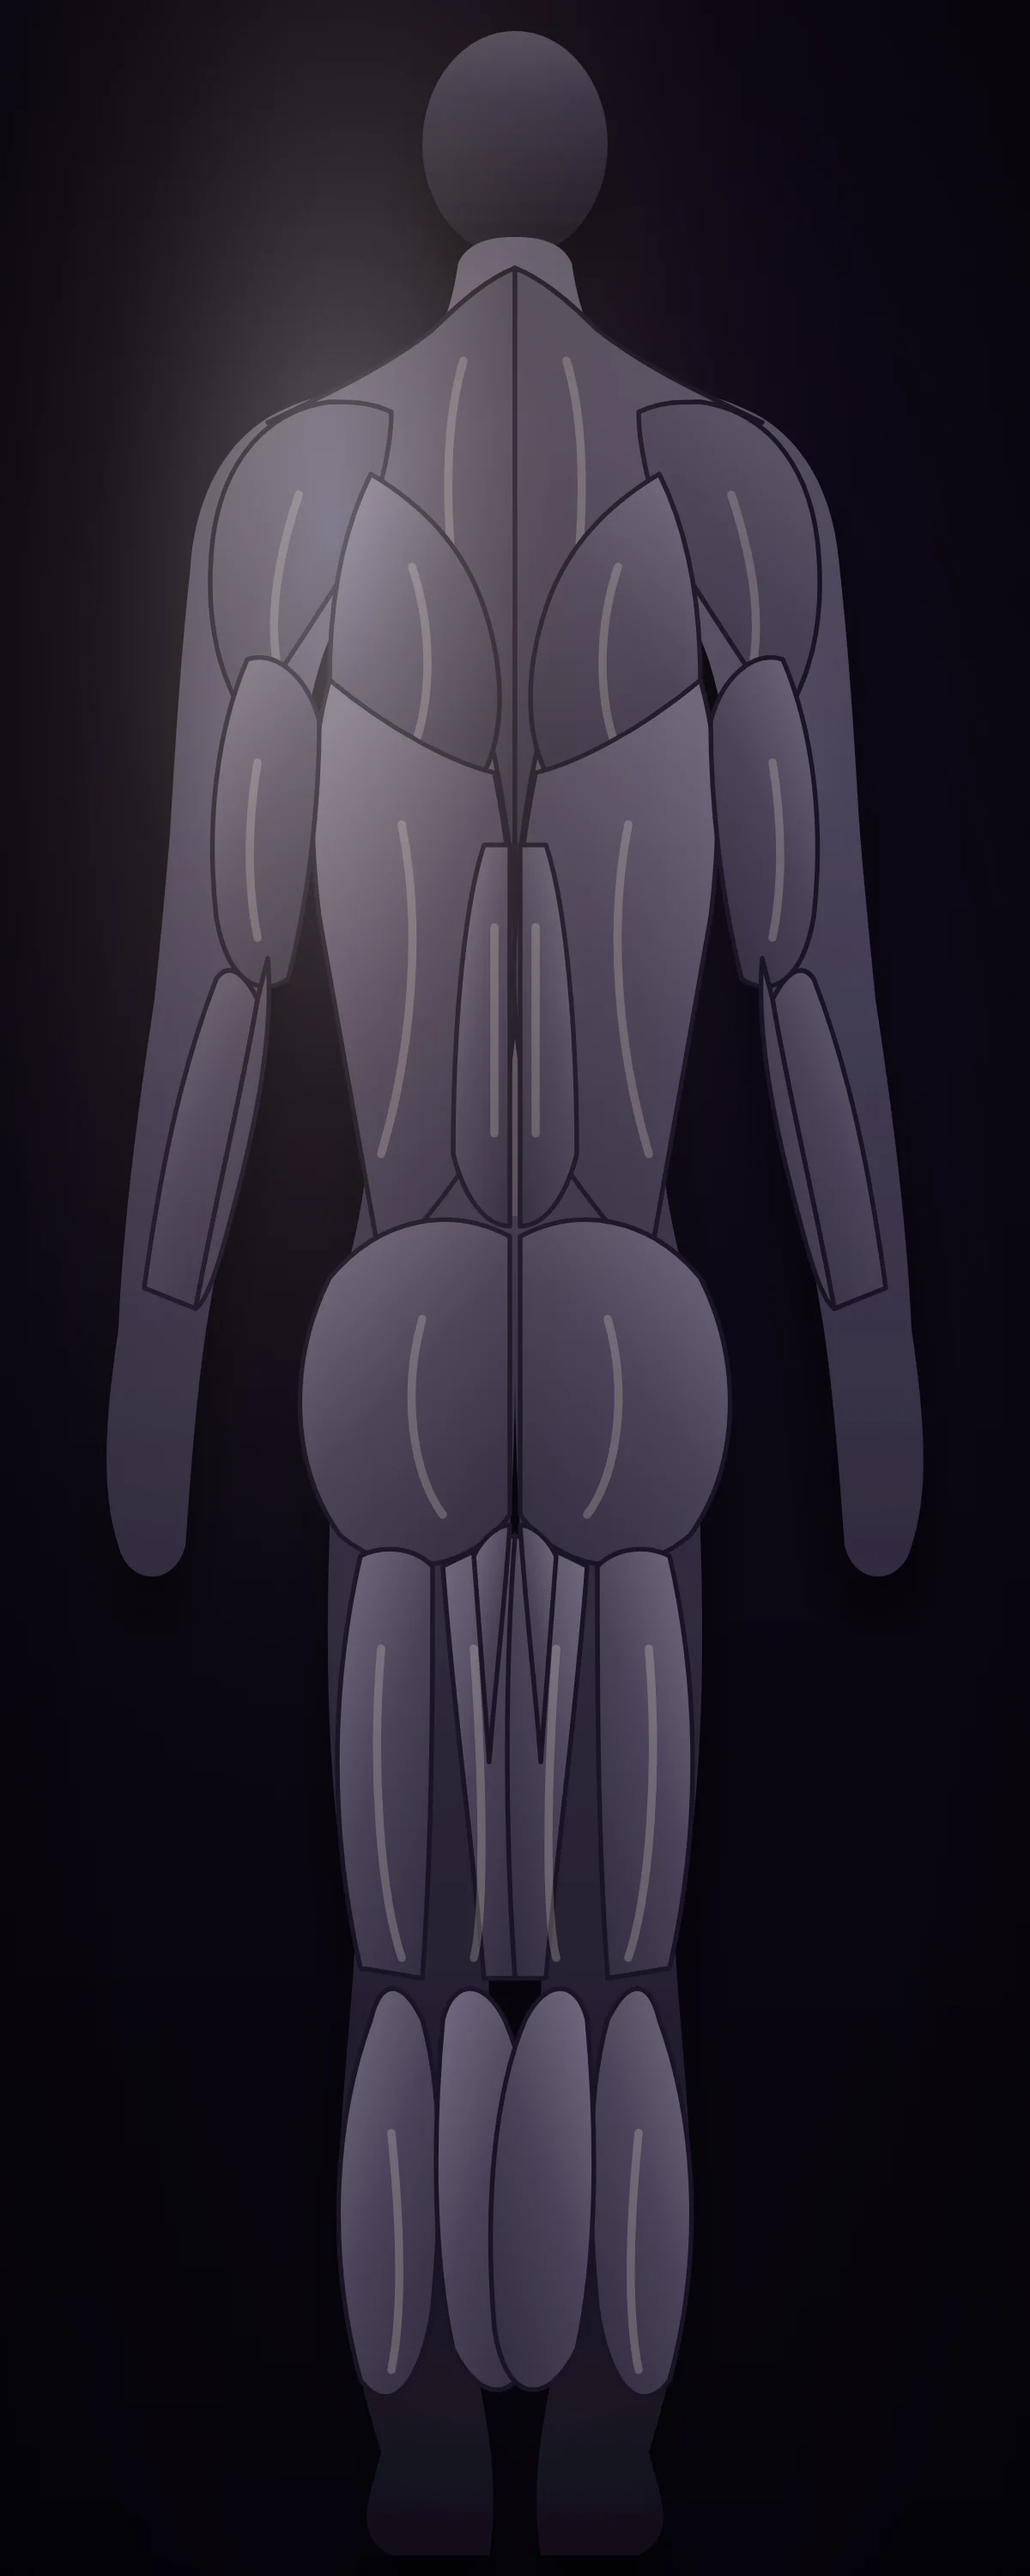
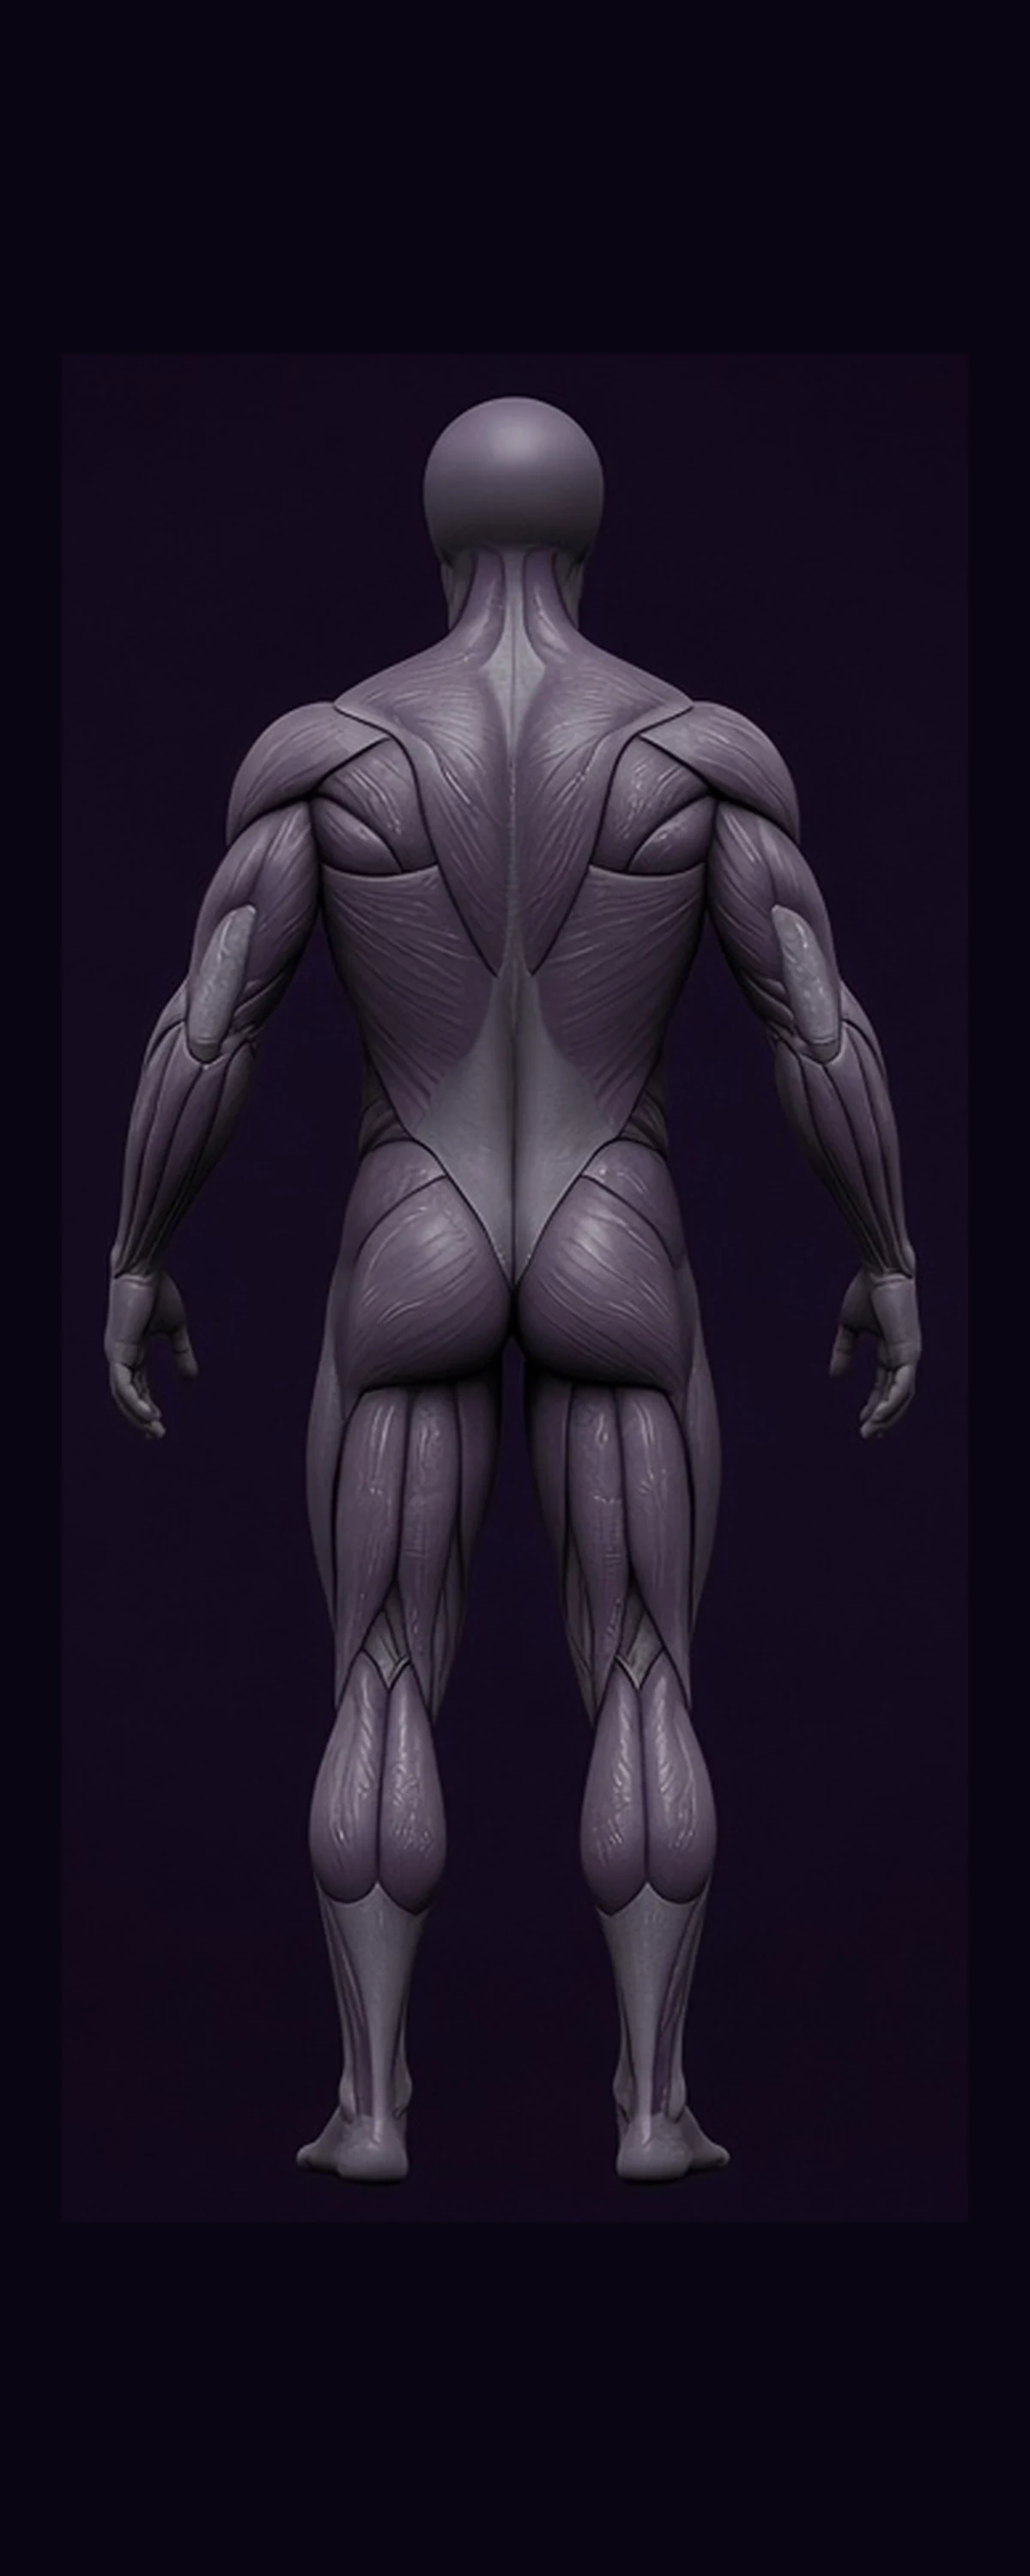
v11: photo-master HQ muscle bases (A/C front+back)
Replace baked WebP bases with 相片大師 1200×3000 PNG→WebP (q88).
Keep PNG fallbacks for shareCard. SW cache gym-everyday-v11.

diff --git a/index.html b/index.html
@@ -4,7 +4,7 @@
     <meta charset="UTF-8" />
     <meta name="viewport" content="width=device-width, initial-scale=1.0, viewport-fit=cover" />
     <meta name="theme-color" content="#0a0614" />
-    <meta name="gym-build" content="v10-hq-muscle-bases-a-c" />
+    <meta name="gym-build" content="v11-photo-muscle-bases" />
     <meta name="description" content="Gym Everyday — gym everyday, gym today. Log sets, see muscles, strength levels and monthly grind." />
     <link rel="icon" type="image/png" sizes="512x512" href="./icon-512.png" />
     <link rel="icon" type="image/svg+xml" href="./icon.svg" />

diff --git a/public/sw.js b/public/sw.js
@@ -1,5 +1,5 @@
 // Simple offline cache. Network first for pages, cache first for files.
-const CACHE = 'gym-everyday-v10'; // bump this on each release so old caches are dropped
+const CACHE = 'gym-everyday-v11'; // bump this on each release so old caches are dropped
 self.addEventListener('install', (e) => {
   self.skipWaiting();
   e.waitUntil(caches.open(CACHE).then((c) => c.addAll([
